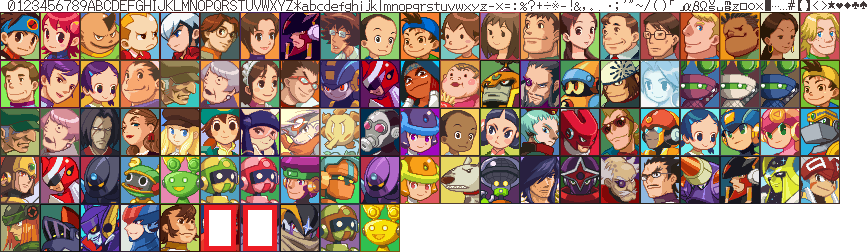
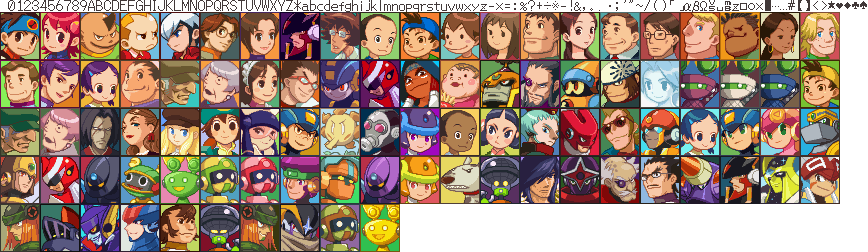
All MMBN5 characters added

Changed region(s): [[0.2177, 0.8056, 0.3422, 1.0], [0.3111, 0.4167, 0.3733, 0.6389]]

diff --git a/js/generators.js b/js/generators.js
@@ -1399,11 +1399,11 @@ var generators={
 		'title': 'Mega Man Battle Network 5',
 		'source':'Capcom',
 		'sourceurl':'https://en.wikipedia.org/wiki/Capcom',
-		'defaulttext':"What a polite young man she was!",
+		'defaulttext':"Clearly, Lan\nyou do not\nown an air fryer.",
 		'gameinfo':'https://www.mobygames.com/game/mega-man-battle-network-5-team-protoman',
 		'platform':'gba',
 		'series':'megaman',
-		'added':'2022-05-26',
+		'added':'2022-07-04',
 		'year':2004
 	},
 	'mmx1':{
